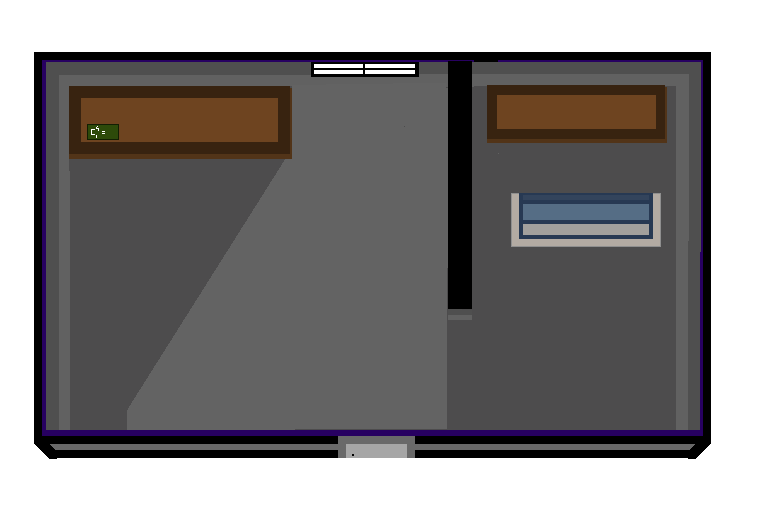
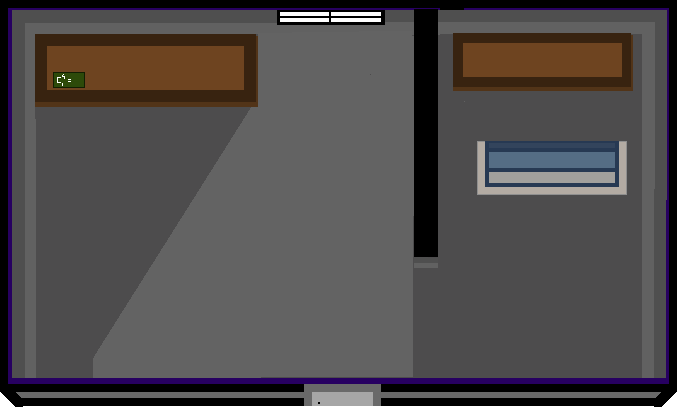
Minor Map Changes

diff --git a/map.py b/map.py
@@ -14,8 +14,8 @@ class Map:
     def load_from_path(self,path,scale_to=1):
         self.path=path
 
-        self.door_data={}
-        self.doors=[]
+        self.special_data={}
+        self.special_tiles={}
 
         loaded_image=pygame.image.load(path+".png")
         with open(path+".json") as loaded_data:
@@ -28,9 +28,15 @@ class Map:
                 loaded_pixel=str(loaded_image.get_at((x,y))[:-1])
                 if loaded_pixel in map_data["Layout Data"]:
                     heightmap_tile_line.append(map_data["Layout Data"][loaded_pixel]["Height"])
+
                     if "Data" in map_data["Layout Data"][loaded_pixel]:
-                        if "Door" in map_data["Layout Data"][loaded_pixel]["Data"]:
-                            self.doors.append((x,map_data["Layout Data"][loaded_pixel]["Height"],y))
+                        for i in map_data["Layout Data"][loaded_pixel]["Data"]:
+                            if i in map_data["Layout Data"][loaded_pixel]["Data"]:
+                                if not i in self.special_tiles:
+                                    self.special_tiles[i]={}
+                                self.special_tiles[i][(x,map_data["Layout Data"][loaded_pixel]["Height"],y)]={
+                                    ""
+                                }
                 else:
                     print("Unknown Pixel:",loaded_pixel)
                     heightmap_tile_line.append(1)
@@ -39,8 +45,8 @@ class Map:
             for i in map_data["Door Data"]:
                 start_and_end=i.split("-")
                 for ii in range(int(start_and_end[0]),int(start_and_end[1])+1):
-                    self.door_data[self.doors[ii]]={
-                        "Destination Path":map_data["Door Data"][i]["Destination Map Path"]
+                    self.special_data[self.special_tiles["Door"][ii]]={
+                        "Door Destination Path":map_data["Door Data"][i]["Destination Map Path"]
                     }
         self.discovered_surface=pygame.Surface((loaded_image.get_width()*scale_to,loaded_image.get_height()*scale_to))
         #self.discovered_surface.set_alpha(120)
@@ -56,8 +62,9 @@ class Map:
                 "Y":0,
                 "Z":1
             }
+        self.backup_base_image=pygame.transform.scale_by(loaded_image,scale_to)
         if not "Overlay Image" in map_data:
-            self.base_image=pygame.transform.scale_by(loaded_image,scale_to)
+            self.base_image=self.backup_base_image
         else:
             self.base_image=pygame.transform.scale(pygame.image.load(map_data["Overlay Image"]),(loaded_image.get_width()*scale_to,loaded_image.get_height()*scale_to))
 #test_map=Map()

diff --git a/engine.py b/engine.py
@@ -15,18 +15,19 @@ pygame.display.set_caption('The Raccoons Hackathon Project - Placehoolder')
 minimal_size = (200, 150)
 minimal_surface = pygame.Surface(minimal_size)
 scaled_map = pygame.transform.scale(win, minimal_size)
+run=True
 
 def mainloop(win,screen,data={}):
-    run=True
+    global run
+    current_map=Map()
     if "Level" in data:
         current_map.load_from_path(data["Level"],100)
         #current_map.base_image=pygame.transform.scale(pygame.image.load("Resources\\Sprites\\e_interface.png"),(current_map.base_image.get_width(),current_map.base_image.get_height()))
     else:
-        current_map=Map()
         current_map.load_from_path("Resources/Sprites/Hitbock",100)
     #current_map.base_image=pygame.transform.scale(pygame.image.load(),(current_map.base_image.get_width(),current_map.base_image.get_height()))
     
-        #test_map.base_image2.set_alpha(100)
+    current_map.backup_base_image.set_alpha(100)
     #test_map.base_image.blit(test_map.base_image2,(0,0))
     #pygame.image.save(test_map.base_image,"HH.png")
     #exit()
@@ -78,7 +79,7 @@ def mainloop(win,screen,data={}):
                 run=False
         keys=pygame.key.get_pressed()
         if keys[27]: run=False
-        if frame%10==0:
+        if frame%1==0:
             player_moved=False
             if keys[pygame.K_UP]:
                 player.move(current_map,"Up")
@@ -105,7 +106,8 @@ def mainloop(win,screen,data={}):
         win.fill((0,0,0))
         
         win.blit(current_map.base_image,(-camera_x,-camera_y))
-        
+        win.blit(current_map.backup_base_image,(-camera_x,-camera_y))
+
         for i in player.standing_on:
             if i["Type"]=="Door":
                 center(win,render_text("Press Q to Enter",30,(0,0,0)),1000,900)

diff --git a/player.py b/player.py
@@ -59,7 +59,7 @@ class Player:
     def update_state(self):
         if self.state!={}:
             if self.state["Type"]=="Moving Animation":
-                self.state["Frames Left"]-=1
+                self.state["Frames Left"]-=10
                 if self.state["Direction"]=="Up":
                     self.display_z=self.entity.z-1+0.1*self.state["Frames Left"]
                 if self.state["Direction"]=="Down":
@@ -80,12 +80,13 @@ class Player:
                         self.entity.x+=1
                     if self.heightmap!=None:
                         self.entity.update_vision(self.heightmap)
-                    for i in self.map.door_data:
-                        if self.entity.x==i[0] and self.entity.y==i[1] and self.entity.z==i[2]:
-                            self.standing_on.append({
-                                "Type":"Door",
-                                "Redirects To":self.map.door_data[i]["Destination Path"]
-                            })
+                    if "Door" in self.map.special_data:
+                        for i in self.map.special_data["Door"]:
+                            if self.entity.x==i[0] and self.entity.y==i[1] and self.entity.z==i[2]:
+                                self.standing_on.append({
+                                    "Type":"Door",
+                                    "Redirects To":self.map.special_data[i]["Destination Path"]
+                                })
                         #if self.x==i[0]:
                     self.display_x=self.entity.x
                     self.display_z=self.entity.z
